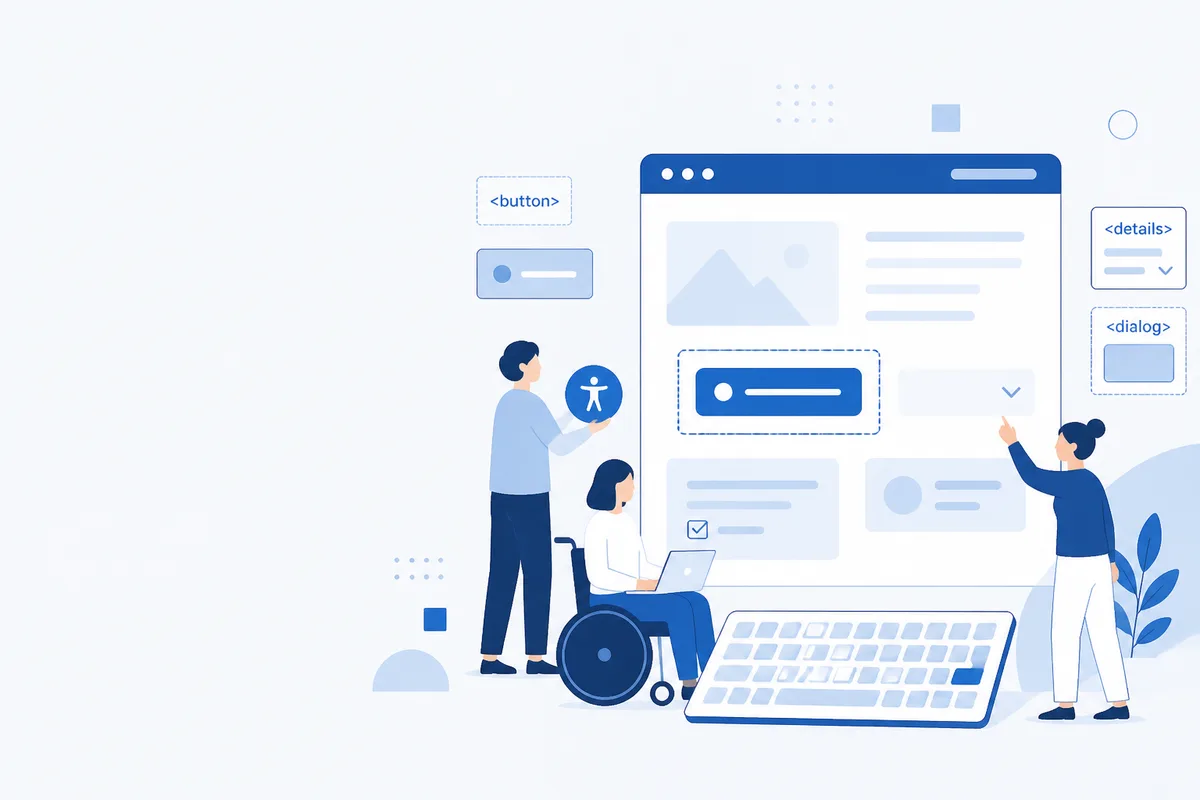
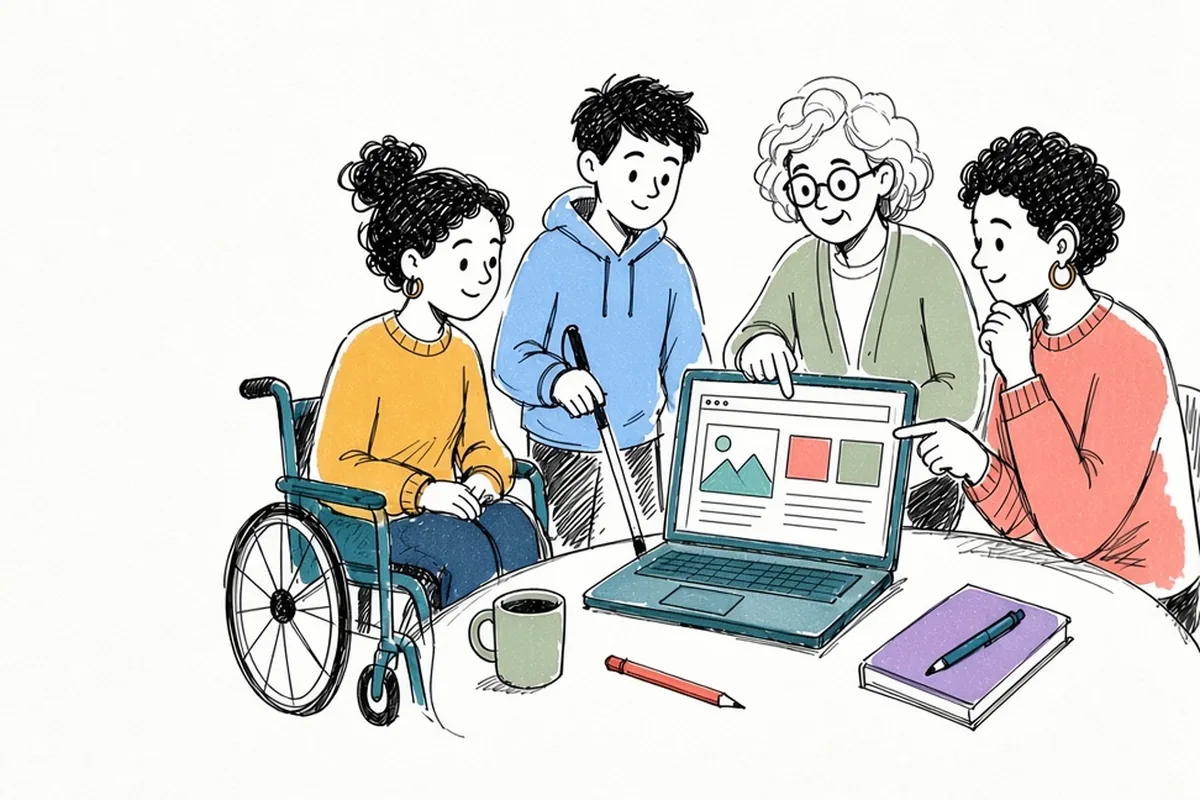
ヒーロー画像を手描きイラスト（WebP）に差し替える (#42)
* feat(home): ヒーローを手描き WebP に差し替える

- 1.1.1 非テキストコンテンツ A: 場面を具体化した代替テキストに更新
- 1.4.12 テキストの間隔 AA: width/height と aspect-ratio で枠を確保
- 狭い画面は 40rem 以下で正方形版を picture 切替、PNG は置かない

* chore(csp): ヒーロー差し替えに伴うインライン style ハッシュを更新

index.astro のヒーロー CSS 変更で CSP style-src ハッシュが変わるため再生成する。

* docs(decisions): ヒーロー差し替えの達成基準を 1.1.1 に絞る

画像の枠確保はレイアウトシフト防止として記載し、無関係な 1.4.12 を外す。

* fix(home): ヒーローの浮遊アニメーションを削除する

内容の妨げになる不要な動きをやめ、関連する keyframes と CSP ハッシュを更新する。

---------

diff --git a/workers/csp-policy.generated.js b/workers/csp-policy.generated.js
@@ -2,4 +2,4 @@
  * 自動生成ファイル。直接編集しないこと。
  * 生成: node scripts/generate-csp.mjs （astro build 後）
  */
-export const CONTENT_SECURITY_POLICY = "default-src 'self'; base-uri 'self'; form-action 'self'; frame-ancestors 'none'; object-src 'none'; img-src 'self'; font-src 'self'; script-src 'self' 'sha256-1Bxrf7CZTHLUAZGGOxSpr5Fbnjfgyo3gx36ADJWf97g=' 'sha256-Knap1SJIVoX7oToVtg9BC7wmRLb+eiBMpuwCofmaREQ=' 'sha256-dA+dpexIr6Pmyn8xU6Je69ORV/ZV7eN30Kc1eqhrEvE=' 'sha256-nAG2dSOSxvHC5EjDDGLmzplBer3a+EWuAWy1tNjgyrg='; style-src 'self' 'sha256-8+zlBvYF5mNkIVrJxR3g2/6UsyHSrDQgA0bNWLl633w=' 'sha256-O4fP8gD2ZpVs6Z9NP7gmUdvmz14wnLpTSLNs9OnOxxk=' 'sha256-S9t8o6yQLUYJPcWRZWd1yLKLCXBLuvy5R8Dcc5Oq7bE=' 'sha256-UGMH9ZmN15HsndoGng7yo5itNHo8yzIMYAEdGR5EI8M=' 'sha256-X9oyBxW3wS6N1dDv1Z61Q+SgSOpbuf8jwKTYq0WoZNI=' 'sha256-qOh/oph3v/b7vdngbFg7cNVCljQwbPQA5g3Oa2D2h4E=' 'sha256-sbqffofpXJvWKspYJe8PIoc2SjUjco91IKPOdCFbiP8='; upgrade-insecure-requests";
+export const CONTENT_SECURITY_POLICY = "default-src 'self'; base-uri 'self'; form-action 'self'; frame-ancestors 'none'; object-src 'none'; img-src 'self'; font-src 'self'; script-src 'self' 'sha256-1Bxrf7CZTHLUAZGGOxSpr5Fbnjfgyo3gx36ADJWf97g=' 'sha256-Knap1SJIVoX7oToVtg9BC7wmRLb+eiBMpuwCofmaREQ=' 'sha256-dA+dpexIr6Pmyn8xU6Je69ORV/ZV7eN30Kc1eqhrEvE=' 'sha256-nAG2dSOSxvHC5EjDDGLmzplBer3a+EWuAWy1tNjgyrg='; style-src 'self' 'sha256-8+zlBvYF5mNkIVrJxR3g2/6UsyHSrDQgA0bNWLl633w=' 'sha256-AMTFo++hZS/8nEWJD2wGs4ab2uU0UeH7BUkbncFppuE=' 'sha256-S9t8o6yQLUYJPcWRZWd1yLKLCXBLuvy5R8Dcc5Oq7bE=' 'sha256-UGMH9ZmN15HsndoGng7yo5itNHo8yzIMYAEdGR5EI8M=' 'sha256-X9oyBxW3wS6N1dDv1Z61Q+SgSOpbuf8jwKTYq0WoZNI=' 'sha256-qOh/oph3v/b7vdngbFg7cNVCljQwbPQA5g3Oa2D2h4E=' 'sha256-sbqffofpXJvWKspYJe8PIoc2SjUjco91IKPOdCFbiP8='; upgrade-insecure-requests";

diff --git a/docs/decisions.md b/docs/decisions.md
@@ -4,6 +4,13 @@
 
 ---
 
+## 2026-10-26 / ヒーロー画像を手描きイラストに差し替える
+
+- **判断内容**：トップヒーローのイラストを手描き風の WebP に差し替える。デスクトップ／タブレット向け 1200×800 と、狭い画面向け 800×800（人物中心の正方形）の2点を `<picture>` で切替。PNG フォールバックは置かない。代替テキストを具体的な場面描写に更新する。`width`/`height` と `aspect-ratio` で画像枠を確保し、読み込み前後のレイアウトシフトを防ぐ。浮遊アニメはコンテンツの邪魔になるため削除した。
+- **対応する達成基準**：1.1.1 非テキストコンテンツ A（適切な代替テキスト）。
+- **選定理由**：従来のイラストは汎用的に見えた。手描きのペン＋色面の作風は、アクセシビリティを扱うサイトでも硬くなりすぎない。狭い画面では正方形版で余白を減らし転送量も抑える。対応ブラウザはすべて WebP を扱えるため PNG は不要。
+- **検討した代替案と却下理由**：単一の横長画像のみ → 狭い画面で余白が大きくなるため却下。PNG フォールバック維持 → 保守コストに見合う端末が残っていないため却下。
+
 ## 2026-10-26 / リンク操作時の見た目を整理する（フォーカスリング・下線）
 
 - **判断内容**：
